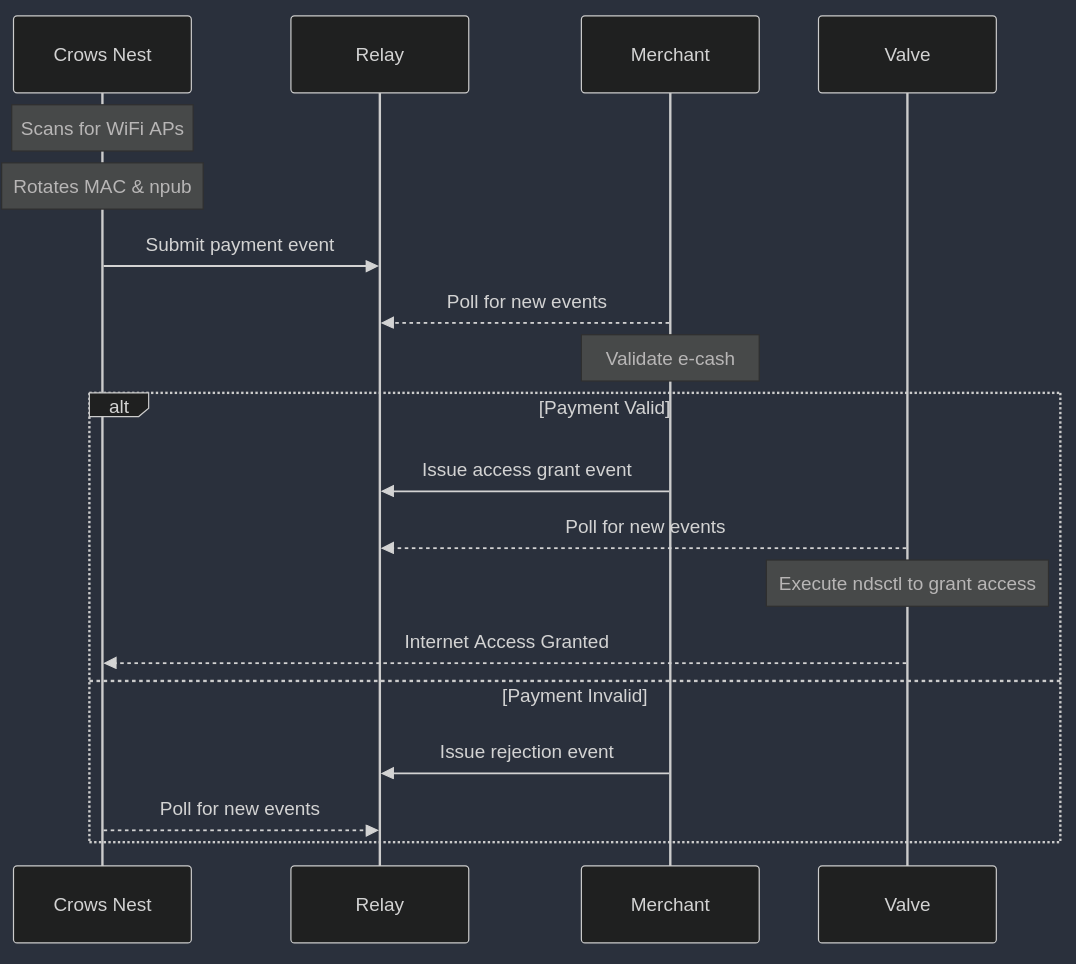
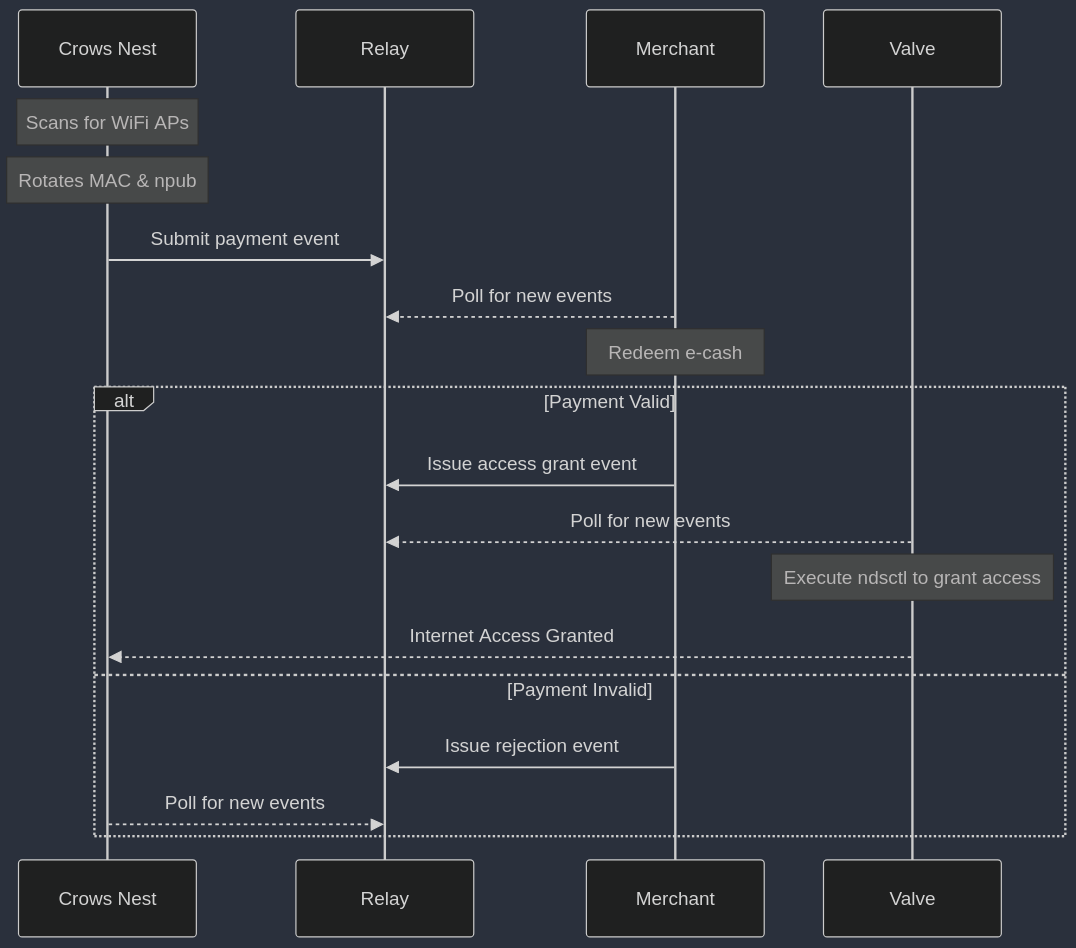
Minor changes

diff --git a/nostr-powering-tollgate.md b/nostr-powering-tollgate.md
@@ -5,16 +5,16 @@ TollGate is a set of tools that enables WiFi routers to accept Bitcoin payments 
 [Nostr](https://github.com/nostr-protocol/nips/blob/master/01.md) (Notes and Other Stuff Transmitted by Relays) is a simple yet powerful decentralised protocol that enables seamless JSON based communication between public keys through relay servers. In the context of TollGate, nostr serves as the perfect foundation for handling WiFi access payments by eliminating the need for traditional captive portals and providing instant, reliable connections through websocket technology. The protocol's relay-based architecture reduces common firewall issues while offering standardised payment methods. Its flexible nature means components can be deployed almost anywhere with minimal configuration, making it ideal for TollGate operators to set up and developers to maintain their services.
 
 ### What are the hardware requirements?
-A TollGate must have at least two TCP/IP interfaces. One interface connects to an internet gateway, while the other interface acts as a WiFi access point for users or other TollGates. Each TollGate runs its own DHCP server with a unique address range to avoid collisions with its gateway or its clients - who could also be running a DHCP server. Hence, each TollGate is a stand-alone system from a networking perspective. Finally, each TollGate has gate-keeping logic that manages firewall rules for allowing clients to access the internet gateway once they have paid and to cut them off again when their session ends.
+A TollGate must have at least two network interfaces. One interface connects to an internet gateway, while the other interface acts as a WiFi access point for users or other TollGates. Each TollGate runs its own DHCP server with a unique address range to avoid collisions with its gateway or its clients (who could also be running a DHCP server). Hence, each TollGate is a stand-alone system from a networking perspective. Finally, each TollGate has gate-keeping logic that manages firewall rules for allowing clients to access the internet gateway once they have paid and to cut them off again when their session ends.
 
-Currently we are targeting [GL-AR300m](https://www.gl-inet.com/products/gl-ar300m/), [GL-MT300](https://www.gl-inet.com/products/gl-mt3000/?utm_source=website&utm_medium=menubar) and [GL-MT600](https://www.gl-inet.com/products/gl-mt6000/) because they come with uboot and they support OpenWRT out of the box.
+Currently we are targeting [GL-AR300m](https://www.gl-inet.com/products/gl-ar300m/), [GL-MT300](https://www.gl-inet.com/products/gl-mt3000/?utm_source=website&utm_medium=menubar) and [GL-MT600](https://www.gl-inet.com/products/gl-mt6000/) because they come with `uboot` for system recovery and they support OpenWRT out of the box.
 
 ### TollGate's New Architecture
 Previously we used WiFi captive portals like [nodogsplash](https://github.com/nodogsplash/nodogsplash) and [OpenNDS](https://github.com/openNDS/openNDS) for managing access to the internet gateway. These captive portals allowed us to quickly build a proof of concept. However, both captive portals came with severe UX and maintainability limitations - see [limitations of captive portals](#benefits-of-using-crows-nest-over-captive-portal).
 
 A key benefit of building on `nostr` is that `services` can generate their own public key based identity (`npub`) in order to send and receive `json` content from other services as long as they have an outbound internet connection that can connect to public IP addresses. Nostr abstracts away the networking layer entirely, so developers don't need to think about things like firewalls, IP-addresses, ports and network boundaries.
 
-Thanks recent success that @origami74 had in running a nostr [relay](https://github.com/fiatjaf/khatru) and a [client](https://github.com/OpenTollGate/tollgate-module-valve-go) on the GL-AR300m, we are now able to build in ways that we could only have dreamt of before. 
+Thanks to recent success that @origami74 had in running a nostr [relay](https://github.com/fiatjaf/khatru) and a [client](https://github.com/OpenTollGate/tollgate-module-valve-go) on the GL-AR300m, we are now able to build in ways that we could only have dreamt of before. 
 
 This figure illustrates the modules that TollGate is now comprised of:
 ![TollGate Modules](./tollgate_modules.jpeg)
@@ -26,13 +26,13 @@ And this sequence diagram illustrates the interaction between the services:
 TollGate is now comprised of three main types of services and a relay:
 
 * **Crows Nest:** scans for available WiFi access points in search of gateways that are worth connecting to. Upon finding a suitable gateway, the crows nest rotates this devices `MAC address` and `npub` (for privacy), connects to the WiFi access point and submits a `payment event` if required.
-* **Valve:** manages access to the internet gateway. Currently the valve is just a `nostr` wrapper around a CLI tool for managing user sessions in captive portals called [ndsctl](https://opennds.readthedocs.io/en/stable/ndsctl.html). Thanks to the fact that the valve now has an `npub`, it can be controlled via events that are issued by the `merchant` service.
-* **Merchant:** sets prices, redeems e-cash notes from `payment events` that customers issued and it issues events that the valve responds to. Merchants can be light weight and fit on the router if they outsource the e-cash redemption logic to third party APIs. However, thanks to nostr, the merchants don't need to run on the router.
-* **Relay:** simplifies connectivity for services. Nostr relays usually have a public IP address, though TollGates will also have a local relay so that critical services that are in the local network continue to function when the TollGate loses internet access.
+* **Valve:** manages access to the internet gateway. Currently the valve is just a `nostr` wrapper around a CLI tool called [ndsctl](https://opennds.readthedocs.io/en/stable/ndsctl.html) for managing user sessions in captive portals. Thanks to the fact that the valve now has an `npub`, it can be controlled via events that are issued by the `merchant` service.
+* **Merchant:** sets prices, redeems e-cash notes from `payment events` that customers issued and it issues events that the valve responds to. Merchants can be light weight and fit on the router if they outsource the e-cash redemption logic to third party APIs. However, thanks to nostr, the merchants don't strictly need to run on the router.
+* **Relay:** simplifies connectivity for services. Nostr relays usually have a public IP address, though TollGates will also have a local relay so critical services that are in the local network continue to function when the TollGate loses internet access.
 
 ### What runs where?
-Now that merchants are controlling `valves` via nostr events, it is perfectly fine for the merchant to be a more complex software bundle with an e-cash wallet and lightning support on an `x86 machine`. The merchant can just issue `nostr events` that control the valve irrespective of how the network connecting the `x86 machine` with the `router` looks. Having the ability to shuffle services around between devices like this enables TollGate contributors to create value with the skill sets that they already have more easily.
-#### Reasoning for order in which devices are being targeted
+Now that merchants are controlling `valves` via nostr events, it is perfectly fine for the merchant to be a more complex software bundle with an e-cash wallet and lightning support on an `x86 machine`. The merchant can just issue `nostr events` that control the valve irrespective of how the network connecting the `x86 machine` with the `router` looks. Having the ability to shuffle services around between devices like this enables TollGate contributors to create value with the skill sets that they already have.
+#### Order in which devices are being targeted
 The following table provides an overview of the order in which we hope to target various devices for each of TollGate's services:
 
 | Module          | Low hanging fruits | Mid term targets | Long term targets |
@@ -41,30 +41,30 @@ The following table provides an overview of the order in which we hope to target
 | Valve           | Router             | x86, armhf       | mobile            |
 | Full Merchant   | x86, armhf         | router           | mobile            |
 | Legacy Merchant | router             | -                | -                 |
-
 ##### Crows Nest
-Routers need the ability to buy from other routers so that the network can grow outwards from the gateway. Hence, routers need a crows nest for TollGate based networks to scale. Fortunately we already know how to work with OpenWRT routers, so this is becoming a well trodden path. Previously, users interacted with the WiFi captive portals manually and they still can if they like, but it isn't recommended (see section [crows nest vs captive portal](#benefits-of-using-crows-nest-over-captive-portal)). 
+Routers need the ability to buy from other routers so that the network can grow outwards from the gateway. Hence, routers need a crows nest for TollGate based networks to scale. Previously, users interacted with the WiFi captive portals manually and they still can if they like, but it isn't recommended (see section [crows nest vs captive portal](#benefits-of-using-crows-nest-over-captive-portal)). 
 
-Users who own a TollGate can have the WiFi UX that they are already used to because they can connect to their own device using a WiFi password like they already do with their home router. They are not making any compromises since they are authenticating their devices on their own TollGate. The crows nest of their TollGate now purchases internet on their behalf and without their device needing to know anything about TollGate.
+Users who own a TollGate can have the WiFi UX that they are already used to because they can connect to their own device using a WiFi password like they already do with their home router. They are not making any compromises since they are authenticating their devices on their own TollGate. The crows nest of their TollGate now purchases internet on their behalf  without their client devices needing to know anything about TollGate.
 
-Requiring that users own a router to get the full TollGate experience could hinder adoption. Sure, they can paste e-cash into the captive portal manually or with a script, but the UX depends on their client device and they have all the down sides of not making granular payments.  Hence, users who want good UX without owning a TollGate would benefit from having a crows nest on their client devices (`mobile` and `x86`) for more granular and reliable data purchases.
+Requiring that users own a router to get the full TollGate experience could hinder adoption. Sure, they can paste e-cash into the captive portal manually or with a script, but the UX depends on their client device and they have all the down sides of not making granular payments.  Hence, users who want good UX without owning a TollGate would benefit from having the ability to install a [crows nest on their client devices](https://github.com/delcin-raj/tollgate-ui) (`mobile` and `x86`) for more granular and reliable data purchases.
 ##### Valve
-Each TollGate needs to have a valve in order to manage access to the internet gateway. The valve must run on the router since that's currently our gate-keeping device. However, ndsctl seems to already have [debian support](https://manpages.debian.org/testing/opennds-daemon-common/ndsctl.1.en.html) so running a TollGate on an `x86` or `armhf` machine might just be a question of getting the network interfaces and configurations under control on debian. 
+Each TollGate needs to have a valve in order to manage access to the internet gateway. The valve runs on the router since that's currently our gate-keeping device. However, ndsctl seems to already have [debian support](https://manpages.debian.org/testing/opennds-daemon-common/ndsctl.1.en.html) so turning an `x86` or `armhf` machine into a TollGate might just be a question of getting the network interfaces and configurations under control on debian. 
 
 > Currently there isn't a clear line between ndsctl (which we rely on for gate-keeping) and the captive portal which brings a lot of complexity to TollGate. Hopefully the valve becomes more of a stand alone solution rather than a wrapper around part of a captive portal in future (see section [captive portal](#benefits-of-using-crows-nest-over-captive-portal)).
 
 ##### Merchants
 ##### Legacy Merchant
-The "legacy merchant" is what we have been using so far. Its just a shell script that runs on the router and submits incoming e-cash notes to a 3rd party API that redeems the notes over lightning and returns a HTTP response informing the TollGate whether the payment was redeemed successfully. This worked since day 1 of TollGate thanks to the robust and accessible cashu ecosystem and the fact that no cryptographic libraries or wallets need to run on the router. However, it meant that TollGate's feature set depended on the APIs of other projects whose developers were also busy.
+The "legacy merchant" is what we have been using so far. Its just a shell script that runs on the router and [submits incoming e-cash](https://github.com/OpenTollGate/tollgate-outdated-build-environment/blob/ebb875697ff7bb078382ece6107060f91e240809/files/cgi-bin/curl_request.sh#L287-L291) notes to a 3rd party API that redeems the notes over lightning and returns a HTTP response informing the TollGate whether the payment was redeemed successfully. This worked since day 1 of TollGate thanks to the robust and accessible cashu ecosystem and the fact that no cryptographic libraries or wallets need to run on the router. However, it meant that TollGate's feature set depended on the APIs of cashu developers who are also busy.
 ##### Full Merchant
-Now that TollGate has full nostr support, operators can easily run their own e-cash wallet, lightning node and gateway selection business logic on an x86 machine and continue to interact with other components of TollGate as if this complex software bundle was running on the router. Clearly this model is more self sovereign and a faster route to building robust TollGates. We can still work on moving the merchant onto the router for more powerful routers or for `x86/armhf` based TollGates.
+Now that TollGate has full nostr support, operators can easily run their own e-cash wallet, lightning node and gateway selection business logic on an `x86 machine` and continue to interact with other components of TollGate as if this complex software bundle was running on the router. Clearly this model is more self sovereign and a faster route to building robust TollGates. We can still consider moving (part of) the merchant onto the router for more powerful routers or for `x86/armhf` based TollGates.
 
 #### Benefits of using crows nest over captive portal
-* **Granularity:** since the crows nest just a nostr client, we can program it to choose between various TollGates (with the merchant's help) and to make payments in the background without requiring the user to interact with it. The fact that the crows nest enables frequent granular payments means that 
+* **Granularity:** since the crows nest is just a nostr client, we can program it to choose between various TollGates (with the merchant's help) and to make payments in the background without requiring the user to interact with it. The fact that the crows nest enables frequent granular payments means that 
 	* users can walk away from a TollGate and connect with a different TollGate without wasting a significant amount of money in the session that they are no longer using on their previous gateway. 
 	* users can change their identities (npub + MAC address) between sessions, thus making ISP data retention more difficult for the TollGates that they interact with. 
 	* TollGates have a limited ability to rug their users, because they don't owe the users much data and the user's crows nest won't make follow up purchase if the data from the previous purchase wasn't delivered.
-* **Control over UX:** client devices that interact with captive portals respond differently to captive portals depending on all sorts of factors including the operating system version that they are running, the browsers that they have also a whole host of configurations on the router and its network. Captive portal related UX issues occur frequently and they are often unique to the user. It is difficult to build a solution that we are proud of if the UX depends on business logic that we can't control. 
+* **Control over UX:** client devices that interact with captive portals respond differently to captive portals depending on all sorts of factors including the operating system version that they are running, the browsers that they have and a whole host of configurations on the router. Captive portal related UX issues occur frequently and they are often unique to the user that reports them. It is difficult to build a solution that we are proud of if the UX depends on business logic that we can't control. 
 * **Interoperability:** the fact that each crows nest has its own npub and the ability to generate standardised nostr events makes it very easy for new devices to interact with TollGate. Client devices that want to connect to a TollGate no longer need to scrape the captive portal that the router serves in order to insert an e-cash string and crows nests can purchase data from a TollGate over the internet before switching to this new TollGate.
+* **Responsiveness:** when we tested the nostr based solution with a basic crows nest and a nostr wrapper around `ndsctl`, we found that we were able to initiate sessions much faster, because the captive portal we were running on the router at the time took multiple seconds to process requests.
 
-We considered writing a [Lua based captive portal](https://github.com/OpenTollGate/tollbooth) that uses [client side rendering](https://github.com/OpenTollGate/tollgate-gui) to address some of these UX issues and to offload the heavy lifting from the router to the client device. A reliable captive portal may still be a valuable on-boarding tool for users who are new to TollGate, though it is much easier for us to deliver good UX and a solid solution with crows nest.
+ A reliable captive portal may still be a valuable on-boarding tool for users who are interacting with a TollGate for the first time. We considered writing a [Lua based captive portal](https://github.com/OpenTollGate/tollbooth) that uses [client side rendering](https://github.com/OpenTollGate/tollgate-gui) to address some of these UX issues and to offload the heavy lifting from the router to the client device. However, though it is much easier for us to deliver good UX and a solid solution with crows nest.

diff --git a/sequence_diagram_mermaid_syntax.md b/sequence_diagram_mermaid_syntax.md
@@ -10,7 +10,7 @@ sequenceDiagram
     CN->>R: Submit payment event
     M-->>R: Poll for new events
     
-    Note over M: Validate e-cash
+    Note over M: Redeem e-cash
     
     alt Payment Valid
         M->>R: Issue access grant event
